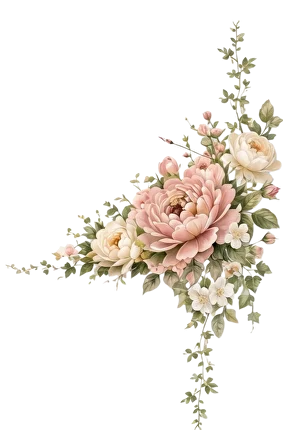
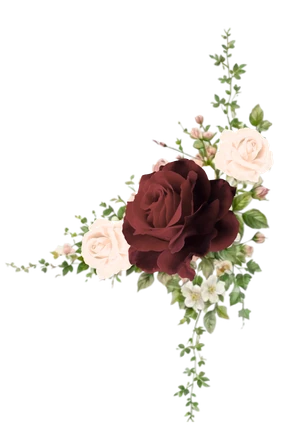
Actualizar florales y afinar vides de vestimenta en móvil.
Incluye los nuevos assets en tonos vino y el ajuste de posición de las flores laterales para el despliegue en Pages.

Changed region(s): [[0.0283, 0.0302, 1.0, 1.0]]

diff --git a/404.html b/404.html
@@ -26,8 +26,8 @@
     <title>Stefany & Erikson — 25.12.2026</title>
     <link rel="icon" href="assets/favicon.svg" type="image/svg+xml">
     <link rel="preload" as="image" href="assets/img/paper-hero.webp">
-    <link rel="preload" as="image" href="assets/img/floral-left.webp">
-    <link rel="preload" as="image" href="assets/img/floral-right.webp">
+    <link rel="preload" as="image" href="assets/img/floral-left.webp?v=24">
+    <link rel="preload" as="image" href="assets/img/floral-right.webp?v=24">
     <link rel="preload" as="image" href="assets/img/sobre.jpg">
     <link rel="preload" as="video" href="assets/video/abrir.mp4?v=4">
     <link rel="preload" as="audio" href="assets/audio/ambiente.m4a">
@@ -38,7 +38,7 @@
     <link rel="preconnect" href="https://script.google.com">
     <link rel="preconnect" href="https://script.googleusercontent.com">
     <link rel="stylesheet" href="https://fonts.googleapis.com/css2?family=Cinzel:wght@400;500;600&family=Cormorant+Garamond:ital,wght@0,400;0,500;0,600;1,500;1,600&family=Ovo&display=swap">
-    <link rel="stylesheet" href="css/styles.css?v=23">
+    <link rel="stylesheet" href="css/styles.css?v=27">
   </head>
   <body>
     <a class="skip" href="#site">Skip</a>
@@ -80,8 +80,8 @@
             <span class="scroll-cue" data-i18n="scroll">Desliza</span>
             <svg class="scroll-chevron" viewBox="0 0 25 16" aria-hidden="true"><path fill="none" stroke="#937100" stroke-width="1" stroke-linecap="round" d="M1 1c3.4 4.4 8.1 8.6 11.5 13C16.8 9.6 19.7 5.4 24 1"></path></svg>
           </div>
-          <img class="floral floral-l" src="assets/img/floral-left.webp" alt="" width="224" height="343">
-          <img class="floral floral-r" src="assets/img/floral-right.webp" alt="" width="236" height="359">
+          <img class="floral floral-l" src="assets/img/floral-left.webp?v=24" alt="" width="224" height="343">
+          <img class="floral floral-r" src="assets/img/floral-right.webp?v=24" alt="" width="236" height="359">
           <img class="hero-paper" src="assets/img/paper-hero.webp" alt="">
           <p class="hero-city" data-i18n="cityLine">San Felipe, Yaracuy</p>
           <div class="hero-letter">
@@ -114,7 +114,7 @@
           <img class="title-flourish title-flourish-r" src="assets/img/title-right.webp" alt="">
           <h2 class="section-title" data-i18n="scheduleTitle">Itinerario</h2>
           <div class="timeline-wrap">
-            <img class="timeline-rose" src="assets/img/rose.webp" alt="" aria-hidden="true">
+            <img class="timeline-rose" src="assets/img/rose.webp?v=24" alt="" aria-hidden="true">
             <ol class="timeline">
               <li>
                 <time datetime="16:00" data-i18n="timeCeremony">4 PM</time>
@@ -189,9 +189,13 @@
 
       <section class="section notes-section">
         <div class="board notes-board">
-          <img class="notes-paper" src="assets/img/paper-hero.webp?v=22" alt="">
-          <img class="card-vine card-vine-r" src="assets/img/vine-r.webp?v=22" alt="">
-          <img class="card-vine card-vine-l" src="assets/img/vine-l.webp?v=22" alt="">
+          <img class="notes-paper" src="assets/img/paper-hero.webp?v=27" alt="">
+          <div class="card-vine card-vine-r" aria-hidden="true">
+            <img src="assets/img/vine-r.webp?v=27" alt="">
+          </div>
+          <div class="card-vine card-vine-l" aria-hidden="true">
+            <img src="assets/img/vine-l.webp?v=27" alt="">
+          </div>
           <div class="notes-block notes-dress">
             <h3 data-i18n="dressTitle">Vestimenta</h3>
             <p data-i18n="dressBody"></p>
@@ -235,8 +239,8 @@
         <div class="board footer-board">
           <p class="footer-hope" data-i18n="footerHope">¡Esperamos verte allí!</p>
           <p class="footer-names" data-i18n="footer">Stefany y Erikson</p>
-          <img class="footer-floral footer-floral-l" src="assets/img/floral-left.webp" alt="">
-          <img class="footer-floral footer-floral-r" src="assets/img/floral-right.webp" alt="">
+          <img class="footer-floral footer-floral-l" src="assets/img/floral-left.webp?v=24" alt="">
+          <img class="footer-floral footer-floral-r" src="assets/img/floral-right.webp?v=24" alt="">
         </div>
       </footer>
     </main>

diff --git a/index.html b/index.html
@@ -26,8 +26,8 @@
     <title>Stefany & Erikson — 25.12.2026</title>
     <link rel="icon" href="assets/favicon.svg" type="image/svg+xml">
     <link rel="preload" as="image" href="assets/img/paper-hero.webp">
-    <link rel="preload" as="image" href="assets/img/floral-left.webp">
-    <link rel="preload" as="image" href="assets/img/floral-right.webp">
+    <link rel="preload" as="image" href="assets/img/floral-left.webp?v=24">
+    <link rel="preload" as="image" href="assets/img/floral-right.webp?v=24">
     <link rel="preload" as="image" href="assets/img/sobre.jpg">
     <link rel="preload" as="video" href="assets/video/abrir.mp4?v=4">
     <link rel="preload" as="audio" href="assets/audio/ambiente.m4a">
@@ -38,7 +38,7 @@
     <link rel="preconnect" href="https://script.google.com">
     <link rel="preconnect" href="https://script.googleusercontent.com">
     <link rel="stylesheet" href="https://fonts.googleapis.com/css2?family=Cinzel:wght@400;500;600&family=Cormorant+Garamond:ital,wght@0,400;0,500;0,600;1,500;1,600&family=Ovo&display=swap">
-    <link rel="stylesheet" href="css/styles.css?v=23">
+    <link rel="stylesheet" href="css/styles.css?v=27">
   </head>
   <body>
     <a class="skip" href="#site">Skip</a>
@@ -80,8 +80,8 @@
             <span class="scroll-cue" data-i18n="scroll">Desliza</span>
             <svg class="scroll-chevron" viewBox="0 0 25 16" aria-hidden="true"><path fill="none" stroke="#937100" stroke-width="1" stroke-linecap="round" d="M1 1c3.4 4.4 8.1 8.6 11.5 13C16.8 9.6 19.7 5.4 24 1"></path></svg>
           </div>
-          <img class="floral floral-l" src="assets/img/floral-left.webp" alt="" width="224" height="343">
-          <img class="floral floral-r" src="assets/img/floral-right.webp" alt="" width="236" height="359">
+          <img class="floral floral-l" src="assets/img/floral-left.webp?v=24" alt="" width="224" height="343">
+          <img class="floral floral-r" src="assets/img/floral-right.webp?v=24" alt="" width="236" height="359">
           <img class="hero-paper" src="assets/img/paper-hero.webp" alt="">
           <p class="hero-city" data-i18n="cityLine">San Felipe, Yaracuy</p>
           <div class="hero-letter">
@@ -114,7 +114,7 @@
           <img class="title-flourish title-flourish-r" src="assets/img/title-right.webp" alt="">
           <h2 class="section-title" data-i18n="scheduleTitle">Itinerario</h2>
           <div class="timeline-wrap">
-            <img class="timeline-rose" src="assets/img/rose.webp" alt="" aria-hidden="true">
+            <img class="timeline-rose" src="assets/img/rose.webp?v=24" alt="" aria-hidden="true">
             <ol class="timeline">
               <li>
                 <time datetime="16:00" data-i18n="timeCeremony">4 PM</time>
@@ -189,9 +189,13 @@
 
       <section class="section notes-section">
         <div class="board notes-board">
-          <img class="notes-paper" src="assets/img/paper-hero.webp?v=22" alt="">
-          <img class="card-vine card-vine-r" src="assets/img/vine-r.webp?v=22" alt="">
-          <img class="card-vine card-vine-l" src="assets/img/vine-l.webp?v=22" alt="">
+          <img class="notes-paper" src="assets/img/paper-hero.webp?v=27" alt="">
+          <div class="card-vine card-vine-r" aria-hidden="true">
+            <img src="assets/img/vine-r.webp?v=27" alt="">
+          </div>
+          <div class="card-vine card-vine-l" aria-hidden="true">
+            <img src="assets/img/vine-l.webp?v=27" alt="">
+          </div>
           <div class="notes-block notes-dress">
             <h3 data-i18n="dressTitle">Vestimenta</h3>
             <p data-i18n="dressBody"></p>
@@ -235,8 +239,8 @@
         <div class="board footer-board">
           <p class="footer-hope" data-i18n="footerHope">¡Esperamos verte allí!</p>
           <p class="footer-names" data-i18n="footer">Stefany y Erikson</p>
-          <img class="footer-floral footer-floral-l" src="assets/img/floral-left.webp" alt="">
-          <img class="footer-floral footer-floral-r" src="assets/img/floral-right.webp" alt="">
+          <img class="footer-floral footer-floral-l" src="assets/img/floral-left.webp?v=24" alt="">
+          <img class="footer-floral footer-floral-r" src="assets/img/floral-right.webp?v=24" alt="">
         </div>
       </footer>
     </main>

diff --git a/css/styles.css b/css/styles.css
@@ -1071,12 +1071,12 @@ a {
   font-weight: 500;
 }
 
-/* ── Dress / gifts: 450×491 — vines anchored so roses stay in frame ── */
-.notes-section {
-  margin-top: 50px; /* spacing vs. maps (tuned to avoid overlap) */
+/* ── Dress / gifts: Sacred Garden rec2487446183 — exact t396 coords ── */
+.section.notes-section {
+  margin-top: 50px;
   padding: 0;
-  background: var(--paper); /* same page ground as body / other sections */
-  overflow: visible;
+  background: var(--paper);
+  overflow: visible; /* override .section overflow-x:clip so corner vines can paint */
 }
 
 .notes-board {
@@ -1086,47 +1086,77 @@ a {
   background: transparent;
 }
 
+/* Tilda: top 20 / left 228→center / 744×453 */
 .notes-paper {
   position: absolute;
   z-index: 0;
-  top: 2px;
+  top: 20px;
   left: 50%;
   width: 744px;
   max-width: none;
-  height: 486px;
+  height: 453px;
   object-fit: fill;
   transform: translateX(-50%);
   pointer-events: none;
 }
 
+/* Outer = Tilda .tn-elem position; img = .tn-atom (rotate lives here, like SG) */
 .card-vine {
   position: absolute;
-  z-index: 2;
+  z-index: 3;
   pointer-events: none;
+  line-height: 0;
+}
+
+.card-vine img {
+  display: block;
+  width: 100%;
   height: auto;
   max-width: none;
 }
 
-/*
-  Vine-R art has the rose cluster on its RIGHT. Anchor with `right` so mobile
-  scale + overflow clip don't leave only a leaf tip on screen (Sacred Garden look).
-*/
+/* Desktop 450col ← grid left-375: R 658→283 w305; L 305→-70 w251 */
 .card-vine-r {
-  top: -14px;
-  left: auto;
-  right: -18px;
-  width: 268px;
-  transform-origin: 70% 30%;
+  top: 9px;
+  left: 283px;
+  width: 305px;
+}
+
+.card-vine-r img {
+  transform-origin: 40% 20%;
   animation: swayR 8s infinite linear;
 }
 
 .card-vine-l {
-  top: auto;
-  bottom: -6px;
-  left: -42px;
-  width: 236px;
+  top: 264px;
+  left: -70px;
+  width: 251px;
+}
+
+/* Sacred Garden: transform:rotate(274deg) on the atom + SBS sway */
+.card-vine-l img {
   transform-origin: center center;
   animation: swayVineL 6s infinite linear;
+}
+
+/*
+  Mobile = Tilda artboard 320 values mapped into our 450 board
+  so after scale(100cqw/450) they match SG scale(100cqw/320):
+  R: top -1, left 155, w 276 → ×450/320
+  L: left -80, w 251 → ×450/320
+*/
+@container board-wrap (max-width: 449.98px) {
+  .notes-board .card-vine-r {
+    top: -1px;
+    left: 218px;
+    width: 276px;
+  }
+
+  .notes-board .card-vine-l {
+    top: 264px;
+    left: -15px;
+    width: 251px;
+  }
 }
 
 @keyframes swayVineL {
@@ -1144,8 +1174,8 @@ a {
   text-align: center;
 }
 
-.notes-dress { top: 72px; }
-.notes-gifts { top: 268px; }
+.notes-dress { top: 86px; }
+.notes-gifts { top: 284px; }
 
 .notes-block h3 {
   margin: 0 0 8px;
